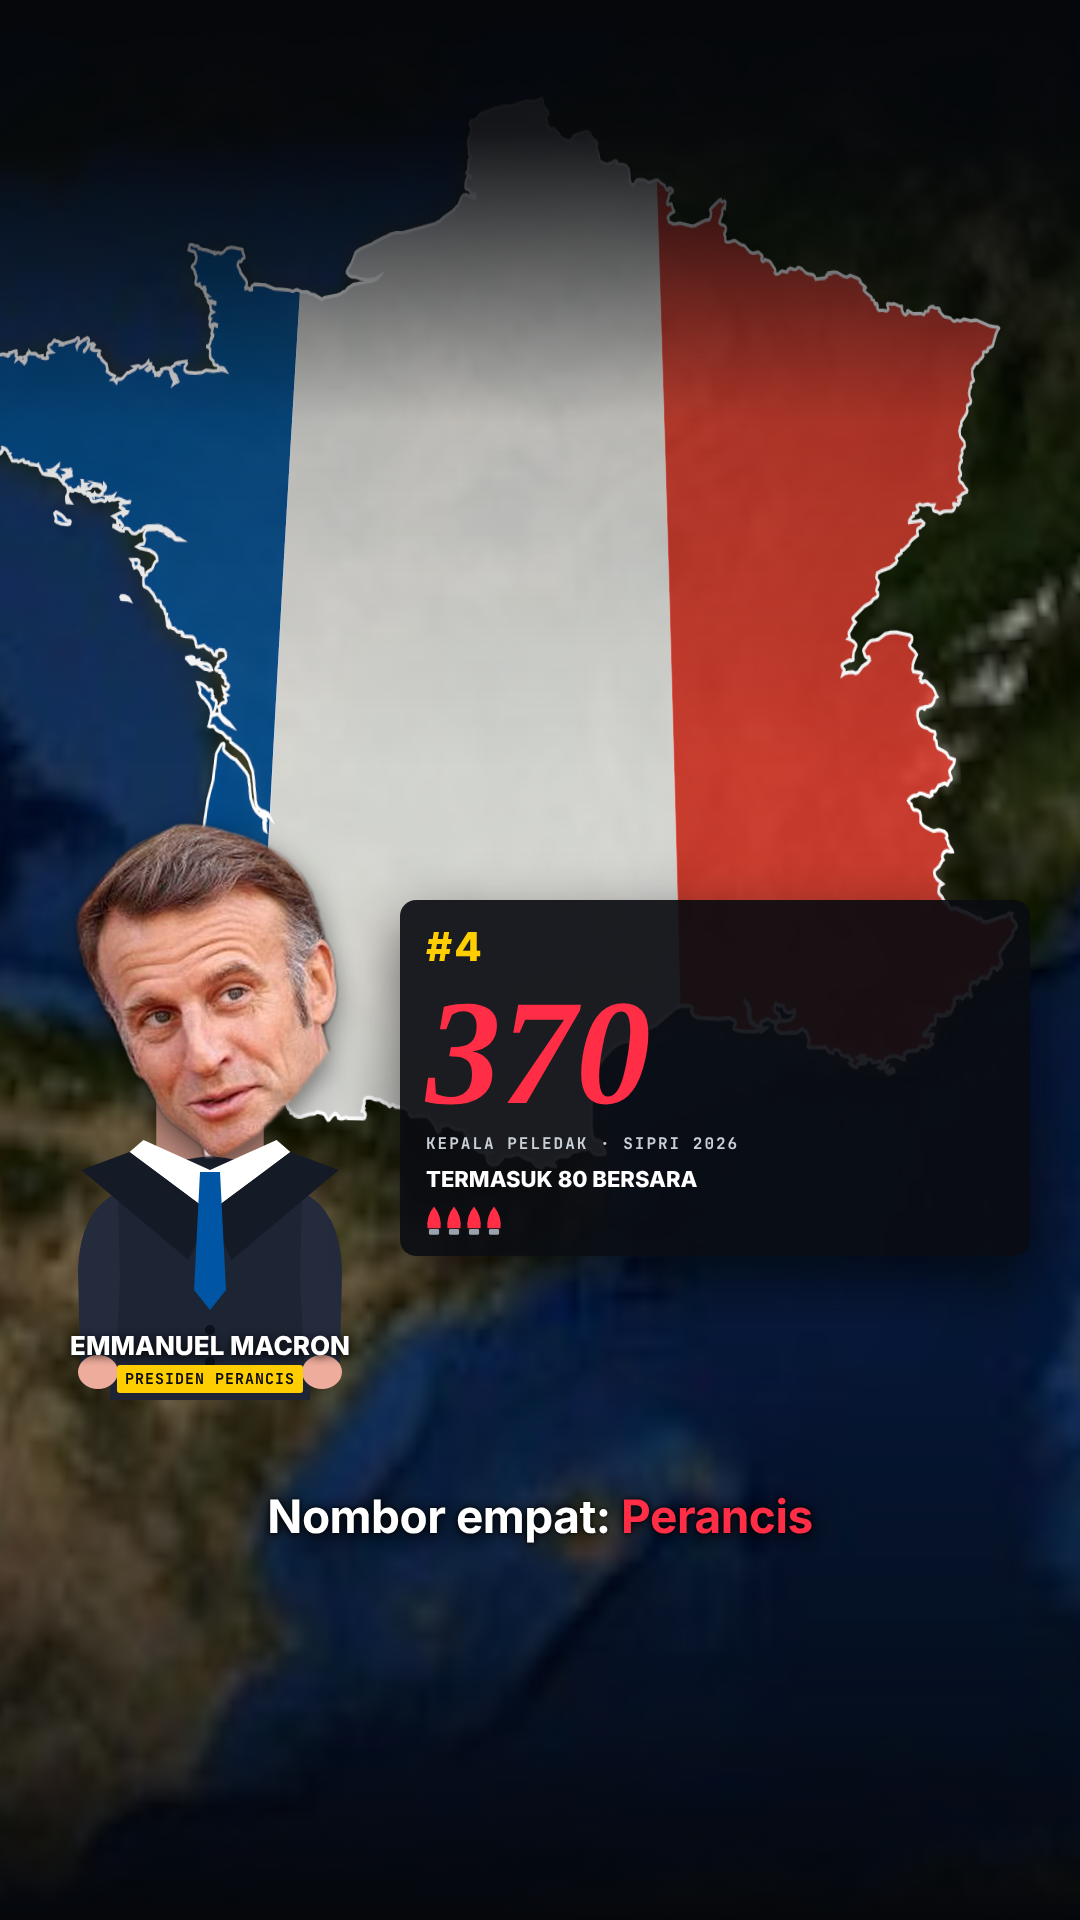
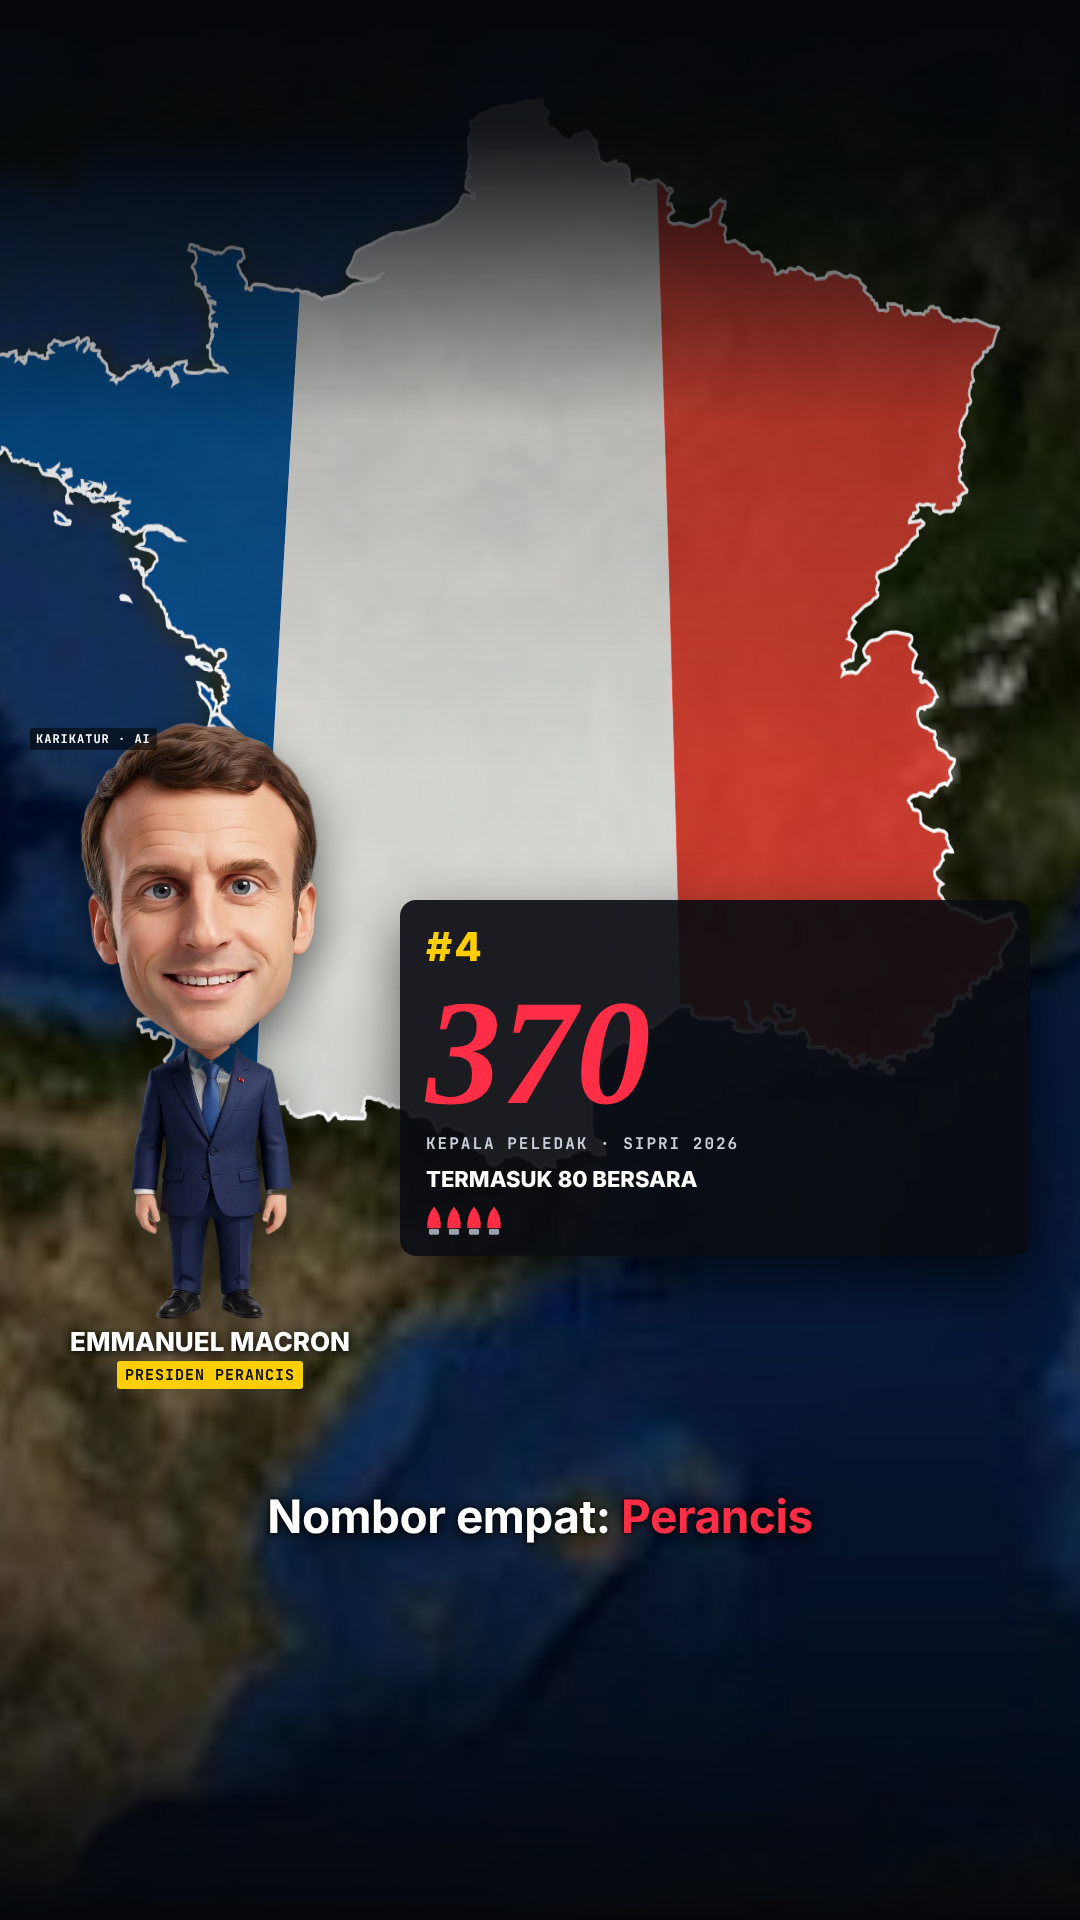
nuklear-video: AI caricatures (cut out, head/body split for wobble) in storyboard
Claude-Session: https://claude.ai/code/session_01GRVCpWmiskqov5jCfdMsbZ

Changed region(s): [[0.0306, 0.375, 0.3361, 0.75]]

diff --git a/nuklear-video/boards/frame.html b/nuklear-video/boards/frame.html
@@ -89,8 +89,9 @@ html,body{width:1080px;height:1920px;background:#05070b;overflow:hidden;font-fam
 .ppl .row{display:flex;justify-content:center;gap:40px;align-items:flex-end}.ppl .ic{display:flex;flex-wrap:wrap;gap:8px;justify-content:center;max-width:300px}
 .ppl .gl{font:800 26px Inter;margin-top:12px}.ppl .ft2{font:700 15px Mono;color:#8a929b;letter-spacing:1px;margin-top:16px}
 .stat .n{font-size:200px}
-.bob{position:absolute;width:340px;height:620px}.bob .bk,.bob .fr{position:absolute;left:0;top:300px}.bob .hh{position:absolute;filter:drop-shadow(0 10px 14px rgba(0,0,0,.5))}
-.bob .np{position:absolute;top:530px;left:0;right:0;text-align:center}.bob .np b{display:block;font:800 26px Inter;color:#fff;text-shadow:0 2px 8px #000}.bob .np i{display:inline-block;font:700 15px Mono;font-style:normal;color:#0b0d12;background:#ffce00;padding:4px 8px;border-radius:3px;letter-spacing:1px;margin-top:4px}
+.bob{position:absolute;width:360px;height:700px}.bob .fig{position:absolute;left:50%;top:0;filter:drop-shadow(0 18px 22px rgba(0,0,0,.55))}.bob .fb,.bob .fh{position:absolute;left:0;top:0}
+.bob .np{position:absolute;top:606px;left:-20px;right:-20px;text-align:center}.bob .np b{display:block;font:800 26px Inter;color:#fff;text-shadow:0 2px 8px #000}.bob .np i{display:inline-block;font:700 15px Mono;font-style:normal;color:#0b0d12;background:#ffce00;padding:4px 8px;border-radius:3px;letter-spacing:1px;margin-top:4px}
+.bob .ai{position:absolute;top:8px;left:0;font:700 12px Mono;color:#fff;background:rgba(0,0,0,.55);padding:3px 6px;border-radius:3px;letter-spacing:1px}
 .rk{position:absolute;left:400px;right:50px;top:900px;background:rgba(10,12,17,.92);border-radius:16px;padding:22px 26px 20px;box-shadow:0 24px 60px rgba(0,0,0,.6)}
 .rk .no{font:800 40px Inter;color:#ffce00;letter-spacing:2px}.rk .num{font:italic 700 150px/1 Serif;color:#ff2d46;margin:6px 0}.rk .kk{font:700 16px Mono;color:#c9d0d8;letter-spacing:2px}.rk .ex{font:800 22px Inter;color:#fff;margin-top:12px}.rk .ex.up{color:#ff2d46}
 .wh{display:flex;flex-wrap:wrap;gap:4px;margin-top:14px;max-height:190px;overflow:hidden}.wh svg{width:16px;height:30px}
@@ -267,19 +268,14 @@ const P = {
 };
 const LEADER = { uk: ["ANDY BURNHAM", "PERDANA MENTERI UK"], fr: ["EMMANUEL MACRON", "PRESIDEN PERANCIS"], cn: ["XI JINPING", "PRESIDEN CHINA"], us: ["DONALD TRUMP", "PRESIDEN AS"], ru: ["VLADIMIR PUTIN", "PRESIDEN RUSIA"] };
 const TIE = { uk: "#C8102E", fr: "#0055A4", cn: "#DE2910", us: "#B22234", ru: "#0039A6" };
-const BOB = await (await fetch("../assets/leaders/bobble.json")).json();
-// bobblehead: cartoon suit (back) + neck in sampled skin tone, real head cut at the jaw, collar + tie in front hides the join
-function bobbleHTML(k, rot = 0) {
-  const m = BOB[k], nw = m.fw * 0.46, sk = m.skin, t = TIE[k];
-  return `<svg class="bk" width="340" height="300" viewBox="0 0 340 300"><rect x="${170 - nw / 2}" y="0" width="${nw}" height="70" fill="${sk}"/><rect x="${170 - nw / 2}" y="0" width="${nw}" height="70" fill="rgba(0,0,0,.2)"/>
-    <path d="M70 300 L70 120 Q74 66 170 56 Q266 66 270 120 L270 300Z" fill="#1d2433"/>
-    <path d="M78 92 Q40 110 38 170 L40 262 Q58 272 76 262 L80 180Z" fill="#232b3d"/><path d="M262 92 Q300 110 302 170 L300 262 Q282 272 264 262 L260 180Z" fill="#232b3d"/>
-    <ellipse cx="58" cy="272" rx="20" ry="17" fill="${sk}"/><ellipse cx="282" cy="272" rx="20" ry="17" fill="${sk}"/><circle cx="170" cy="230" r="5" fill="#0d111a"/><circle cx="170" cy="262" r="5" fill="#0d111a"/></svg>
-  <img class="hh" src="../assets/leaders/${k}-head.png" style="left:${170 - m.ax}px;top:${360 - m.h}px;width:${m.w}px;height:${m.h}px;transform-origin:${m.ax}px ${m.h - 10}px;transform:rotate(${rot}deg)">
-  <svg class="fr" width="340" height="300" viewBox="0 0 340 300"><path d="M${170 - nw * 0.75} 52 L170 112 L${170 + nw * 0.75} 52 L${170 + nw * 0.62} 40 L170 70 L${170 - nw * 0.62} 40Z" fill="#fff"/>
-    <path d="M${170 - nw * 0.75} 52 L170 112 L${170 - nw * 0.2} 160 L${170 - nw * 1.2} 70Z" fill="#141a26"/><path d="M${170 + nw * 0.75} 52 L170 112 L${170 + nw * 0.2} 160 L${170 + nw * 1.2} 70Z" fill="#141a26"/>
-    <path d="M160 72 L180 72 L186 190 L170 210 L154 190Z" fill="${t}"/></svg>
-  <div class="np"><b>${LEADER[k][0]}</b><i>${LEADER[k][1]}</i></div>`;
+const FIG = await (await fetch("../assets/leaders/fig.json")).json();
+// AI caricature split at the neck: body layer + head layer that wobbles around the neck pivot
+function bobbleHTML(k, rot = 0, H = 600) {
+  const m = FIG[k], sc = H / m.h, w = m.w * sc;
+  return `<div class="fig" style="width:${w}px;height:${H}px;margin-left:${-w / 2}px">
+    <img class="fb" src="../assets/leaders/${k}-fbody.png" style="width:${w}px;height:${H}px">
+    <img class="fh" src="../assets/leaders/${k}-fhead.png" style="width:${w}px;height:${(m.neck + 7) * sc}px;transform-origin:${m.px * sc}px ${m.neck * sc}px;transform:rotate(${rot}deg)"></div>
+    <div class="np"><b>${LEADER[k][0]}</b><i>${LEADER[k][1]}</i></div><div class="ai">KARIKATUR · AI</div>`;
 }
 const bobble = (k, x, y, rot = -3) => html(`<div class="bob" style="left:${x}px;top:${y}px">${bobbleHTML(k, rot)}</div>`);
 const warheads = (n) => `<div class="wh">${Array.from({ length: n }, (_, i) => `<svg width="22" height="40" viewBox="0 0 22 40"><path d="M11 0 Q22 14 20 30 L2 30 Q0 14 11 0Z" fill="${i < n ? "#ff2d46" : "#333"}"/><rect x="4" y="31" width="14" height="8" rx="2" fill="#9aa3ad"/></svg>`).join("")}</div>`;
@@ -290,18 +286,18 @@ const FR = {
     html(`<div class="chip" style="top:330px">● 4,012 SIAP DIGUNA · SEKARANG</div>`);
     html(`<div class="title" style="top:1000px"><div class="a">SATU NEGARA PEGANG</div><div class="b"><span>5,420</span></div><div class="c">TEKA SIAPA?</div><div class="ln"></div></div>`); },
   2() { flagFill("fUK", UKf, { lon0: -9, lon1: 3, lat0: 49, lat1: 61, ppd: 120 }, P.uk); g.setView({ lat: 54.5, lon: -3, dist: 0.55, tilt: 14, yShift: 0.2 });
-    bobble("uk", 40, 800); rank(5, "225", "uk", `<div class="ex">UJIAN PERTAMA · 1952</div>`, 2); capB(`Nombor lima: <span class="r">United Kingdom</span>`); },
+    bobble("uk", 30, 720); rank(5, "225", "uk", `<div class="ex">UJIAN PERTAMA · 1952</div>`, 2); capB(`Nombor lima: <span class="r">United Kingdom</span>`); },
   3() { flagFill("fFR", FRf, { lon0: -6, lon1: 10, lat0: 41, lat1: 52, ppd: 100 }, P.fr); g.setView({ lat: 47, lon: 2.5, dist: 0.5, tilt: 14, yShift: 0.2 });
-    bobble("fr", 40, 800); rank(4, "370", "fr", `<div class="ex">TERMASUK 80 BERSARA</div>`, 4); capB(`Nombor empat: <span class="r">Perancis</span>`); },
+    bobble("fr", 30, 720); rank(4, "370", "fr", `<div class="ex">TERMASUK 80 BERSARA</div>`, 4); capB(`Nombor empat: <span class="r">Perancis</span>`); },
   4() { flagFill("fCN", CNf, { lon0: 72, lon1: 136, lat0: 17, lat1: 55, ppd: 20 }, P.cn); g.setView({ lat: 36, lon: 104, dist: 1.5, tilt: 10, yShift: 0.2 });
-    bobble("cn", 40, 800); rank(3, "620", "cn", `<div class="ex up">▲ PALING LAJU BERTAMBAH · 600 → 620</div>`, 6); capB(`paling <span class="r">laju bertambah</span> di dunia`); },
+    bobble("cn", 30, 720); rank(3, "620", "cn", `<div class="ex up">▲ PALING LAJU BERTAMBAH · 600 → 620</div>`, 6); capB(`paling <span class="r">laju bertambah</span> di dunia`); },
   5() { flagFill("fUS", USf, { lon0: -172, lon1: -64, lat0: 18, lat1: 72, ppd: 12 }, P.us); g.setView({ lat: 42, lon: -100, dist: 2.0, tilt: 8, yShift: 0.2 });
-    bobble("us", 40, 800); rank(2, "5,042", "us", `<div class="ex">UJIAN PERTAMA · 1945</div>`, 50); capB(`Nombor dua: <span class="r">Amerika Syarikat</span>`); },
+    bobble("us", 30, 720); rank(2, "5,042", "us", `<div class="ex">UJIAN PERTAMA · 1945</div>`, 50); capB(`Nombor dua: <span class="r">Amerika Syarikat</span>`); },
   6() { flagFill("fRU", RUf, { lon0: 19, lon1: 180, lat0: 41, lat1: 78, ppd: 10 }, P.ru); g.setView({ lat: 56, lon: 95, dist: 3.6, tilt: 6, yShift: 0.2 });
-    bobble("ru", 40, 800); rank(1, "5,420", "ru", `<div class="ex">👑 TERBESAR DI DUNIA</div>`, 54); capB(`Dan nombor satu: <span class="r">Rusia</span>`); },
+    bobble("ru", 30, 720); rank(1, "5,420", "ru", `<div class="ex">👑 TERBESAR DI DUNIA</div>`, 54); capB(`Dan nombor satu: <span class="r">Rusia</span>`); },
   7() { g.setView({ lat: 45, lon: 40, dist: 4.4, tilt: 4, yShift: 0.15 });
     const D = [["RUSIA", 5420, "ru"], ["AS", 5042, "us"], ["CHINA", 620, "cn"], ["PERANCIS", 370, "fr"], ["UK", 225, "uk"]];
-    html(`<div class="bars5"><div class="k">KEPALA PELEDAK · SIPRI 2026</div>${D.map(([n, v, k], i) => `<div class="br ${i < 2 ? "hot" : ""}"><img src="../assets/leaders/${k}-head.png"><span class="nm">${n}</span><div class="bb"><div style="width:${v / 5420 * 100}%"></div></div><span class="v">${v.toLocaleString("en")}</span></div>`).join("")}<div class="donut"><b>&gt;80%</b><i>RUSIA + AS</i></div></div>`);
+    html(`<div class="bars5"><div class="k">KEPALA PELEDAK · SIPRI 2026</div>${D.map(([n, v, k], i) => `<div class="br ${i < 2 ? "hot" : ""}"><img src="../assets/leaders/${k}-fhead.png"><span class="nm">${n}</span><div class="bb"><div style="width:${v / 5420 * 100}%"></div></div><span class="v">${v.toLocaleString("en")}</span></div>`).join("")}<div class="donut"><b>&gt;80%</b><i>RUSIA + AS</i></div></div>`);
     capB(`pegang <span class="r">lebih lapan puluh peratus</span>`); },
   8() { const L = g.layer("asean", 6, { lon0: 92, lon1: 141, lat0: -11, lat1: 29, ppd: 40 }), c = L.ctx; c.fillStyle = "rgba(40,200,120,.45)"; c.strokeStyle = "#5dffb0"; c.lineWidth = 3;
     for (const f of ASEAN) { L.path(f.geometry); c.fill("evenodd"); c.stroke(); } L.tex.needsUpdate = true; malaysiaFlag();

diff --git a/nuklear-video/boards/storyboard.html b/nuklear-video/boards/storyboard.html
@@ -18,17 +18,17 @@ h1{font:800 46px Inter;letter-spacing:-1px}h1 span{color:#ff2d46}
 .fx{font:400 15px/1.45 Inter;color:#9aa3ad}.fx b{color:#ffcf4a;font-weight:700}
 </style></head><body>
 <h1>TOP 5 <span>KUASA NUKLEAR</span> · storyboard</h1>
-<div class="meta">GAYA MAP ANIMATION (fakta, kiraan 5 → 1) · 1080×1920 · ~50 s · bobblehead dari gambar pemimpin (sama layanan untuk semua) · subtitle di jalur bawah · data: SIPRI Yearbook 2026 Jadual 8A.1</div>
+<div class="meta">GAYA MAP ANIMATION (fakta, kiraan 5 → 1) · 1080×1920 · ~50 s · karikatur AI pemimpin (label KARIKATUR · AI, gaya sama untuk semua) · subtitle di jalur bawah · data: SIPRI Yearbook 2026 Jadual 8A.1</div>
 <div class="grid">
 <div class="f"><img src="frame-01.png"><div><div class="n">01 · 0:00</div><div class="t">Hook</div><div class="vo">"Saat ni, lebih empat ribu senjata nuklear dah siap dipasang… satu negara je pegang lima ribu empat ratus. Teka siapa?"</div><div class="fx">Glob berputar, 9 titik merah berdenyut, "4,012 SIAP DIGUNA". Tajuk <b>SATU NEGARA PEGANG 5,420 · TEKA SIAPA?</b></div></div></div>
-<div class="f"><img src="frame-02.png"><div><div class="n">02 · 0:07</div><div class="t">#5 UK</div><div class="vo">"Nombor lima: United Kingdom. Dua ratus dua puluh lima."</div><div class="fx">Terbang ke UK, Union Jack isi negara. <b>Bobblehead Andy Burnham</b> jatuh masuk & bergoyang. Kad <b>#5 · 225</b>, ikon peledak (1 = 100).</div></div></div>
-<div class="f"><img src="frame-03.png"><div><div class="n">03 · 0:11</div><div class="t">#4 Perancis</div><div class="vo">"Nombor empat: Perancis. Tiga ratus tujuh puluh."</div><div class="fx">Terbang ke Perancis, tiga warna. <b>Bobblehead Macron</b>. <b>#4 · 370</b>, nota "termasuk 80 bersara".</div></div></div>
-<div class="f"><img src="frame-04.png"><div><div class="n">04 · 0:15</div><div class="t">#3 China</div><div class="vo">"Nombor tiga: China. Enam ratus dua puluh. Paling laju bertambah."</div><div class="fx">China merah + bintang. <b>Bobblehead Xi Jinping</b>. <b>#3 · 620</b>, anak panah naik "600 → 620".</div></div></div>
-<div class="f"><img src="frame-05.png"><div><div class="n">05 · 0:21</div><div class="t">#2 AS</div><div class="vo">"Nombor dua: Amerika Syarikat. Lima ribu empat puluh dua."</div><div class="fx">Stars & stripes atas AS. <b>Bobblehead Trump</b>. <b>#2 · 5,042</b>, 50 ikon peledak membanjiri kad.</div></div></div>
-<div class="f"><img src="frame-06.png"><div><div class="n">06 · 0:25</div><div class="t">#1 Rusia</div><div class="vo">"Dan nombor satu: Rusia. Lima ribu empat ratus dua puluh."</div><div class="fx">Zoom out besar ke Rusia, tiga warna. <b>Bobblehead Putin</b>. <b>#1 · 5,420</b> 👑, tint merah.</div></div></div>
+<div class="f"><img src="frame-02.png"><div><div class="n">02 · 0:07</div><div class="t">#5 UK</div><div class="vo">"Nombor lima: United Kingdom. Dua ratus dua puluh lima."</div><div class="fx">Terbang ke UK, Union Jack isi negara. <b>Karikatur Andy Burnham</b> jatuh masuk & bergoyang. Kad <b>#5 · 225</b>, ikon peledak (1 = 100).</div></div></div>
+<div class="f"><img src="frame-03.png"><div><div class="n">03 · 0:11</div><div class="t">#4 Perancis</div><div class="vo">"Nombor empat: Perancis. Tiga ratus tujuh puluh."</div><div class="fx">Terbang ke Perancis, tiga warna. <b>Karikatur Macron</b>. <b>#4 · 370</b>, nota "termasuk 80 bersara".</div></div></div>
+<div class="f"><img src="frame-04.png"><div><div class="n">04 · 0:15</div><div class="t">#3 China</div><div class="vo">"Nombor tiga: China. Enam ratus dua puluh. Paling laju bertambah."</div><div class="fx">China merah + bintang. <b>Karikatur Xi Jinping</b>. <b>#3 · 620</b>, anak panah naik "600 → 620".</div></div></div>
+<div class="f"><img src="frame-05.png"><div><div class="n">05 · 0:21</div><div class="t">#2 AS</div><div class="vo">"Nombor dua: Amerika Syarikat. Lima ribu empat puluh dua."</div><div class="fx">Stars & stripes atas AS. <b>Karikatur Trump</b>. <b>#2 · 5,042</b>, 50 ikon peledak membanjiri kad.</div></div></div>
+<div class="f"><img src="frame-06.png"><div><div class="n">06 · 0:25</div><div class="t">#1 Rusia</div><div class="vo">"Dan nombor satu: Rusia. Lima ribu empat ratus dua puluh."</div><div class="fx">Zoom out besar ke Rusia, tiga warna. <b>Karikatur Putin</b>. <b>#1 · 5,420</b> 👑, tint merah.</div></div></div>
 <div class="f"><img src="frame-07.png"><div><div class="n">07 · 0:30</div><div class="t">83%</div><div class="vo">"Rusia dan Amerika je, pegang lebih 80% senjata nuklear dunia."</div><div class="fx">Carta bar 5 negara (kepala kecil di tepi), AS + Rusia menyala merah, donut <b>&gt;80%</b>.</div></div></div>
 <div class="f"><img src="frame-08.png"><div><div class="n">08 · 0:35</div><div class="t">Malaysia: 0</div><div class="vo">"Malaysia pula? Kosong. Asia Tenggara zon bebas senjata nuklear sejak 1995."</div><div class="fx">Terbang ke Asia Tenggara, 10 negara menyala hijau, Malaysia bendera. Kad <b>0</b>, "PERJANJIAN BANGKOK · 1995".</div></div></div>
 <div class="f"><img src="frame-09.png"><div><div class="n">09 · 0:43</div><div class="t">Komen!</div><div class="vo">"Dunia lebih selamat dengan nuklear… atau tanpa? Komen kat bawah."</div><div class="fx">Dua butang <b>DENGAN</b> vs <b>TANPA</b>, gelembung komen, <b>KOMEN ↓</b>, lepas tu outro.</div></div></div>
 </div>
-<div class="meta" style="margin-top:30px">Caption BAWAH, perkataan demi perkataan · zoom punch pada kata kunci · bobblehead bergoyang bila kamera sampai · carta bar membina · penutup ajak komen · satu shot kamera berterusan</div>
+<div class="meta" style="margin-top:30px">Caption BAWAH, perkataan demi perkataan · zoom punch pada kata kunci · karikatur jatuh masuk, melantun &amp; kepala bergoyang · carta bar membina · penutup ajak komen · satu shot kamera berterusan</div>
 </body></html>
